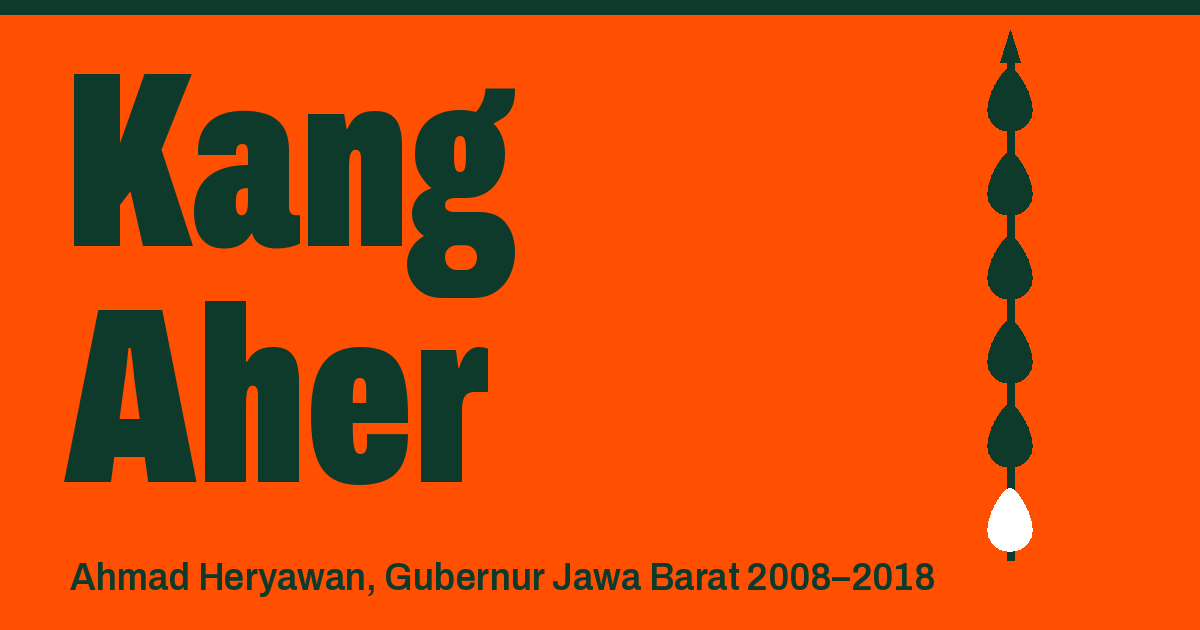
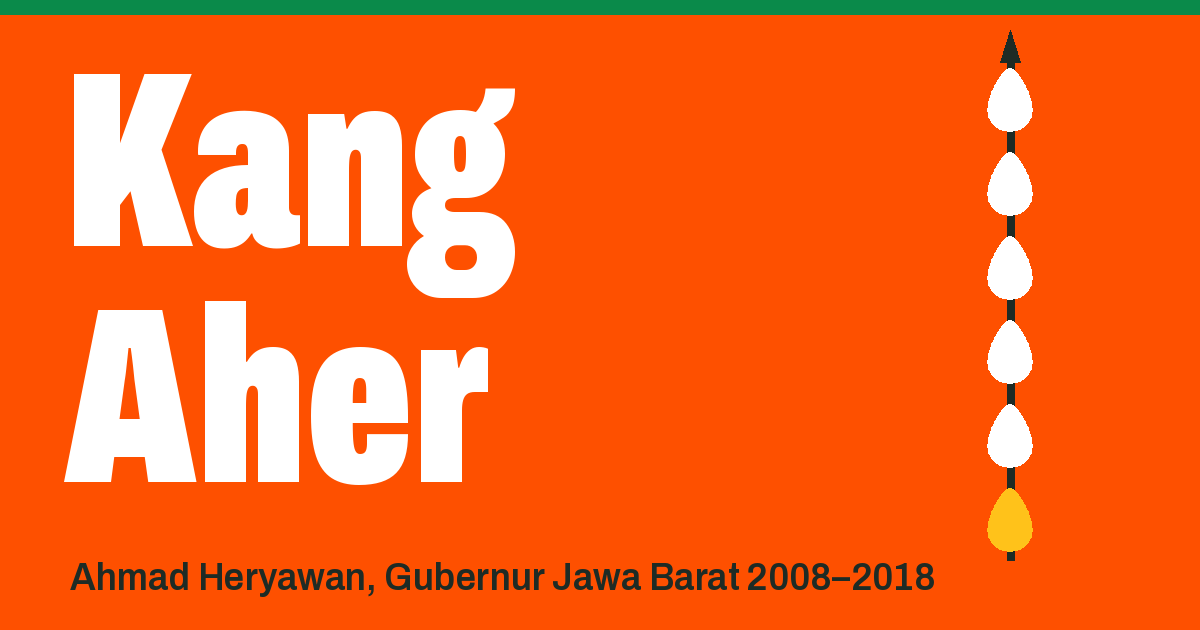
Cerahkan palet warna: header putih, judul hero putih, hijau segar
Claude-Session: https://claude.ai/code/session_01BfiBAV8U4AReKEVzHfXEqp

diff --git a/public/assets/style.css b/public/assets/style.css
@@ -23,12 +23,14 @@
 :root {
   --oren: #fe5000;
   --oren-tua: #c93f00;
-  --leuweung: #0e3a2c;
-  --leuweung-2: #164d3b;
+  --leuweung: #1e2b25;
+  --hijau: #0a8a4a;
+  --hijau-2: #0b9d55;
+  --leuweung-2: #0b9d55;
   --bodas: #ffffff;
-  --kapas: #eef2ea;
-  --koneng: #f5b700;
-  --garis: #c9d4c5;
+  --kapas: #fff3ea;
+  --koneng: #ffc21a;
+  --garis: #f1d6c4;
 
   --sans: "Archivo", system-ui, sans-serif;
   --serif: "Literata", Georgia, serif;
@@ -77,8 +79,8 @@ p:last-child { margin-bottom: 0; }
 /* ---------- top bar ---------- */
 .topbar {
   position: sticky; top: 0; z-index: 50;
-  background: var(--leuweung); color: var(--bodas);
-  font-family: var(--sans);
+  background: var(--bodas); color: var(--leuweung);
+  font-family: var(--sans); box-shadow: 0 1px 0 var(--garis);
 }
 .topbar .wrap { display: flex; align-items: center; justify-content: space-between; gap: 1rem; min-height: 3.75rem; }
 .brand { display: flex; align-items: center; gap: .6rem; text-decoration: none; font-weight: 700; font-stretch: 90%; font-size: 1.05rem; }
@@ -87,14 +89,14 @@ p:last-child { margin-bottom: 0; }
 .nav ul { display: flex; gap: 1.4rem; list-style: none; margin: 0; padding: 0; }
 .nav a { text-decoration: none; font-size: .95rem; font-weight: 500; opacity: .85; }
 .nav a:hover, .nav a[aria-current="true"] { opacity: 1; text-decoration: underline; text-decoration-color: var(--oren); text-decoration-thickness: 3px; }
-.nav-toggle { display: none; background: none; border: 1px solid rgba(255,255,255,.35); color: inherit; font: 600 .95rem var(--sans); padding: .45rem .8rem; border-radius: 4px; cursor: pointer; }
+.nav-toggle { display: none; background: none; border: 2px solid var(--oren); color: inherit; font: 600 .95rem var(--sans); padding: .45rem .8rem; border-radius: 4px; cursor: pointer; }
 
 @media (max-width: 860px) {
   .nav-toggle { display: inline-block; }
-  .nav { position: absolute; left: 0; right: 0; top: 100%; background: var(--leuweung); border-top: 1px solid var(--leuweung-2); display: none; }
+  .nav { position: absolute; left: 0; right: 0; top: 100%; background: var(--bodas); border-top: 1px solid var(--garis); box-shadow: 0 12px 24px rgba(254,80,0,.12); display: none; }
   .nav.open { display: block; }
   .nav ul { flex-direction: column; gap: 0; padding: .5rem var(--gutter) 1rem; }
-  .nav a { display: block; padding: .7rem 0; font-size: 1.05rem; border-bottom: 1px solid var(--leuweung-2); }
+  .nav a { display: block; padding: .7rem 0; font-size: 1.05rem; border-bottom: 1px solid var(--garis); }
 }
 
 /* ---------- hero ---------- */
@@ -106,6 +108,7 @@ p:last-child { margin-bottom: 0; }
 }
 .salam { font-family: var(--serif); font-style: italic; font-size: var(--t-2); margin: 0 0 .75rem; }
 .hero h1 {
+  color: var(--bodas);
   font-stretch: 62%; font-weight: 900; text-transform: none;
   font-size: clamp(6rem, 40vw, 14rem); line-height: .86; letter-spacing: -0.02em;
   margin-left: -0.04em;
@@ -120,18 +123,18 @@ p:last-child { margin-bottom: 0; }
   padding: 1rem 1.35rem; border-radius: 999px; border: 2px solid var(--leuweung);
   background: var(--leuweung); color: var(--bodas); cursor: pointer;
 }
-.btn:hover { background: var(--leuweung-2); border-color: var(--leuweung-2); }
-.btn.ghost { background: transparent; color: var(--leuweung); }
-.btn.ghost:hover { background: rgba(14,58,44,.1); }
+.btn:hover { background: #33443b; border-color: #33443b; }
+.btn.ghost { background: var(--bodas); border-color: var(--bodas); color: var(--leuweung); }
+.btn.ghost:hover { background: var(--kapas); border-color: var(--kapas); }
 
 /* tusuk sate */
 .sate { position: relative; margin: 0; }
 .sate svg { width: auto; height: min(68vh, 34rem); max-width: 100%; overflow: visible; }
 @media (max-width: 860px) { .sate svg { height: auto; width: 100%; max-width: 21rem; } }
 .sate .rod { stroke: var(--leuweung); stroke-width: 4; stroke-linecap: round; }
-.sate .bead path { fill: var(--leuweung); }
-.sate .bead.now path { fill: var(--bodas); stroke: var(--leuweung); stroke-width: 3; }
-.sate .yr { font: 800 25px var(--sans); font-stretch: 80%; fill: var(--leuweung); }
+.sate .bead path { fill: var(--bodas); }
+.sate .bead.now path { fill: var(--koneng); stroke: var(--leuweung); stroke-width: 3; }
+.sate .yr { font: 800 25px var(--sans); font-stretch: 80%; fill: var(--bodas); }
 .sate .lbl { font: 500 17px var(--sans); fill: var(--leuweung); }
 .sate .tick { stroke: var(--leuweung); stroke-width: 1.5; }
 .sate figcaption { font-style: italic; font-size: var(--t-0); margin-top: .75rem; max-width: 22rem; }
@@ -165,7 +168,7 @@ section { padding-block: clamp(3.5rem, 8vw, 6.5rem); }
 .fakta dd { font-weight: 600; font-size: 1.02rem; line-height: 1.45; }
 .kisah h3 { font-size: var(--t-3); font-stretch: 85%; margin-bottom: 1rem; }
 .kisah p:first-of-type::first-letter { font-family: var(--sans); font-weight: 900; font-stretch: 62%; float: left; font-size: 4.4em; line-height: .8; margin: .08em .1em 0 0; color: var(--oren); }
-.kutip { margin: 2rem 0 0; padding: 1.25rem 1.5rem; background: var(--leuweung); color: var(--bodas); border-radius: 4px 24px 4px 4px; font-size: var(--t-1); }
+.kutip { margin: 2rem 0 0; padding: 1.25rem 1.5rem; background: var(--hijau); color: var(--bodas); border-radius: 4px 24px 4px 4px; font-size: var(--t-1); }
 .kutip strong { color: var(--koneng); font-family: var(--sans); }
 @media (max-width: 860px) { .profil-grid { grid-template-columns: 1fr; } }
 
@@ -179,7 +182,7 @@ section { padding-block: clamp(3.5rem, 8vw, 6.5rem); }
 .lini .isi p { margin: 0; max-width: 40rem; }
 .lini .isi ul { margin: .4rem 0 0; padding-left: 1.1rem; max-width: 40rem; }
 .lini .besar .isi h3 { font-size: 1.45rem; }
-.lini .besar::after { background: var(--leuweung); }
+.lini .besar::after { background: var(--hijau-2); }
 @media (max-width: 560px) {
   .lini::before { left: 3.6rem; }
   .lini > li { grid-template-columns: 2.9rem 1fr; gap: 1.6rem; }
@@ -225,7 +228,7 @@ section { padding-block: clamp(3.5rem, 8vw, 6.5rem); }
 @media (max-width: 760px) { .bidang .badan { grid-template-columns: 1fr; } }
 
 /* penghargaan */
-.rak { background: var(--leuweung); color: var(--bodas); }
+.rak { background: var(--hijau); color: var(--bodas); }
 .rak .sec-head h2 { color: var(--bodas); }
 .rak .angka-besar { font-family: var(--sans); font-weight: 900; font-stretch: 62%; color: var(--koneng); font-size: clamp(5rem, 16vw, 11rem); line-height: .85; display: block; margin-bottom: .5rem; }
 .histo { display: grid; grid-template-columns: repeat(10, minmax(0, 1fr)); gap: .4rem; align-items: end; height: 13rem; margin: 2rem 0 .5rem; font-family: var(--sans); }
@@ -233,23 +236,23 @@ section { padding-block: clamp(3.5rem, 8vw, 6.5rem); }
   height: 100%; display: flex; flex-direction: column; justify-content: flex-end; align-items: stretch; gap: .35rem;
   background: none; border: 0; color: var(--bodas); cursor: pointer; padding: 0; font: inherit;
 }
-.histo .bar { background: rgba(255,255,255,.18); border-radius: 3px 3px 0 0; height: var(--h); min-height: 6px; transition: background .2s; position: relative; }
+.histo .bar { background: rgba(255,255,255,.3); border-radius: 3px 3px 0 0; height: var(--h); min-height: 6px; transition: background .2s; position: relative; }
 .histo .n { font-weight: 800; font-size: 1.05rem; text-align: center; }
 .histo .y { font-weight: 600; font-size: .85rem; text-align: center; opacity: .8; border-top: 2px solid rgba(255,255,255,.3); padding-top: .35rem; }
-.histo button:hover .bar { background: rgba(255,255,255,.35); }
+.histo button:hover .bar { background: rgba(255,255,255,.5); }
 .histo button[aria-pressed="true"] .bar { background: var(--koneng); }
 .histo button[aria-pressed="true"] .y { opacity: 1; border-color: var(--koneng); }
 .cari { display: flex; flex-wrap: wrap; gap: 1rem; align-items: center; justify-content: space-between; margin: 1.75rem 0 1rem; font-family: var(--sans); }
 .cari input {
   flex: 1 1 18rem; max-width: 28rem; font: 500 1rem var(--sans); padding: .85rem 1rem; border-radius: 6px;
-  border: 2px solid rgba(255,255,255,.35); background: var(--leuweung-2); color: var(--bodas);
+  border: 2px solid rgba(255,255,255,.5); background: rgba(255,255,255,.12); color: var(--bodas);
 }
 .cari input::placeholder { color: rgba(255,255,255,.6); }
 .cari input:focus { outline: none; border-color: var(--koneng); }
 .cari .info { font-size: .95rem; opacity: .85; }
 .daftar { list-style: none; margin: 0; padding: 0; columns: 2 26rem; column-gap: 3rem; }
-.daftar li { break-inside: avoid; display: grid; grid-template-columns: 3rem 1fr; gap: .75rem; padding: .8rem 0; border-top: 1px solid rgba(255,255,255,.14); font-size: .98rem; line-height: 1.55; }
-.daftar li span { font-family: var(--sans); font-weight: 800; color: var(--koneng); font-stretch: 80%; }
+.daftar li { break-inside: avoid; display: grid; grid-template-columns: 3rem 1fr; gap: .75rem; padding: .8rem 0; border-top: 1px solid rgba(255,255,255,.25); font-size: .98rem; line-height: 1.55; }
+.daftar li span { font-family: var(--sans); font-weight: 800; color: var(--bodas); font-stretch: 80%; }
 .daftar mark { background: var(--koneng); color: var(--leuweung); border-radius: 2px; padding: 0 .1em; }
 .kosong { font-family: var(--sans); padding: 1.5rem 0; }
 .lebih { margin-top: 1.5rem; }
@@ -259,9 +262,9 @@ section { padding-block: clamp(3.5rem, 8vw, 6.5rem); }
 
 .kehormatan { margin-top: clamp(3rem, 6vw, 4.5rem); }
 .kehormatan h3 { font-size: var(--t-3); font-stretch: 85%; margin-bottom: 1.25rem; }
-.lencana { list-style: none; margin: 0; padding: 0; display: grid; grid-template-columns: repeat(3, minmax(0, 1fr)); gap: 1px; background: rgba(255,255,255,.18); border: 1px solid rgba(255,255,255,.18); }
-.lencana li { background: var(--leuweung); padding: 1.25rem; font-size: .95rem; line-height: 1.5; }
-.lencana b { display: block; font-family: var(--sans); font-size: 1.1rem; line-height: 1.25; margin-bottom: .3rem; color: var(--koneng); }
+.lencana { list-style: none; margin: 0; padding: 0; display: grid; grid-template-columns: repeat(3, minmax(0, 1fr)); gap: 1px; background: rgba(255,255,255,.3); border: 1px solid rgba(255,255,255,.3); }
+.lencana li { background: var(--hijau); padding: 1.25rem; font-size: .95rem; line-height: 1.5; }
+.lencana b { display: block; font-family: var(--sans); font-size: 1.1rem; line-height: 1.25; margin-bottom: .3rem; color: var(--bodas); }
 .lencana i { font-family: var(--sans); font-style: normal; font-weight: 700; font-size: .85rem; opacity: .8; }
 @media (max-width: 860px) { .lencana { grid-template-columns: 1fr 1fr; } }
 @media (max-width: 520px) { .lencana { grid-template-columns: 1fr; } .histo { height: 10rem; gap: .2rem; } .histo .y { font-size: .7rem; } .histo .n { font-size: .85rem; } }
@@ -280,7 +283,7 @@ section { padding-block: clamp(3.5rem, 8vw, 6.5rem); }
 
 /* catatan */
 .catatan-grid { display: grid; grid-template-columns: repeat(3, minmax(0, 1fr)); gap: clamp(1.5rem, 3vw, 2.5rem); }
-.catatan-grid article { border-top: 4px solid var(--leuweung); padding-top: 1.25rem; }
+.catatan-grid article { border-top: 4px solid var(--oren); padding-top: 1.25rem; }
 .catatan-grid h3 { font-size: 1.35rem; font-stretch: 88%; margin-bottom: .75rem; line-height: 1.2; }
 .catatan-grid .wkt { font-family: var(--sans); font-weight: 700; font-size: .9rem; color: var(--oren-tua); margin-bottom: .5rem; display: block; }
 .serba { margin-top: 3rem; padding: 1.5rem; background: var(--bodas); border-radius: 6px; max-width: 48rem; }
@@ -289,13 +292,17 @@ section { padding-block: clamp(3.5rem, 8vw, 6.5rem); }
 
 /* sebarkan */
 .sebar { background: var(--oren); }
+.sebar .btn.ghost { background: transparent; border-color: var(--leuweung); }
+.sebar .btn.ghost:hover { background: var(--bodas); border-color: var(--bodas); }
 .sebar .wrap { display: grid; grid-template-columns: minmax(0, 1fr) auto; gap: 2rem; align-items: center; }
-.sebar h2 { font-size: var(--t-5); font-stretch: 70%; font-weight: 900; }
+.sebar h2 { color: var(--bodas); font-size: var(--t-5); font-stretch: 70%; font-weight: 900; }
 .sebar p { font-size: 1.5rem; font-family: var(--sans); font-weight: 500; line-height: 1.35; margin-top: .75rem; max-width: 34rem; }
 .bagi { display: flex; flex-wrap: wrap; gap: .6rem; max-width: 26rem; justify-content: flex-end; }
 .bagi .btn { padding: .9rem 1.2rem; }
 .bagi svg { width: 1.15rem; height: 1.15rem; fill: currentColor; }
-@media (max-width: 760px) { .sebar .wrap { grid-template-columns: 1fr; } .bagi { justify-content: flex-start; } }
+@media (max-width: 760px) { .sebar .btn.ghost { background: transparent; border-color: var(--leuweung); }
+.sebar .btn.ghost:hover { background: var(--bodas); border-color: var(--bodas); }
+.sebar .wrap { grid-template-columns: 1fr; } .bagi { justify-content: flex-start; } }
 
 /* sumber */
 .sumber { font-size: .98rem; }
@@ -310,11 +317,11 @@ section { padding-block: clamp(3.5rem, 8vw, 6.5rem); }
 @media (max-width: 760px) { .sumber .kol { grid-template-columns: 1fr; } }
 
 /* footer */
-.kaki { background: var(--leuweung); color: var(--bodas); font-family: var(--sans); padding-block: 2.5rem; font-size: .92rem; }
+.kaki { background: var(--hijau); color: var(--bodas); font-family: var(--sans); padding-block: 2.5rem; font-size: .92rem; }
 .kaki .wrap { display: grid; grid-template-columns: minmax(0, 1.4fr) minmax(0, 1fr); gap: 2rem; }
 .kaki p { opacity: .85; line-height: 1.6; }
 .kaki .kanan { text-align: right; }
-.kaki a { color: var(--koneng); }
+.kaki a { color: var(--bodas); font-weight: 700; }
 @media (max-width: 760px) { .kaki .wrap { grid-template-columns: 1fr; } .kaki .kanan { text-align: left; } }
 
 .toast { position: fixed; left: 50%; bottom: 1.5rem; transform: translate(-50%, 1rem); background: var(--leuweung); color: var(--bodas); font: 600 .95rem var(--sans); padding: .8rem 1.2rem; border-radius: 999px; opacity: 0; pointer-events: none; transition: opacity .2s, transform .2s; z-index: 80; }

diff --git a/public/index.html b/public/index.html
@@ -33,7 +33,7 @@
 <header class="topbar">
   <div class="wrap">
     <a class="brand" href="#atas" aria-label="Fans Kang Aher, ke atas">
-      <svg viewBox="0 0 32 32" aria-hidden="true"><rect width="32" height="32" rx="7" fill="#fe5000"/><path d="M16 5c3 0 4.4 3 5 6.6.9 5 4.3 8.5 4 11.2-2.1 2-5.6.9-9 2.3-3.4-1.4-6.9-.3-9-2.3-.3-2.7 3.1-6.2 4-11.2C11.6 8 13 5 16 5Z" fill="#0e3a2c"/></svg>
+      <svg viewBox="0 0 32 32" aria-hidden="true"><rect width="32" height="32" rx="7" fill="#fe5000"/><path d="M16 5c3 0 4.4 3 5 6.6.9 5 4.3 8.5 4 11.2-2.1 2-5.6.9-9 2.3-3.4-1.4-6.9-.3-9-2.3-.3-2.7 3.1-6.2 4-11.2C11.6 8 13 5 16 5Z" fill="#ffffff"/></svg>
       <span>fans<b>kang</b>aher</span>
     </a>
     <button class="nav-toggle" type="button" aria-expanded="false" aria-controls="menu">Menu</button>
